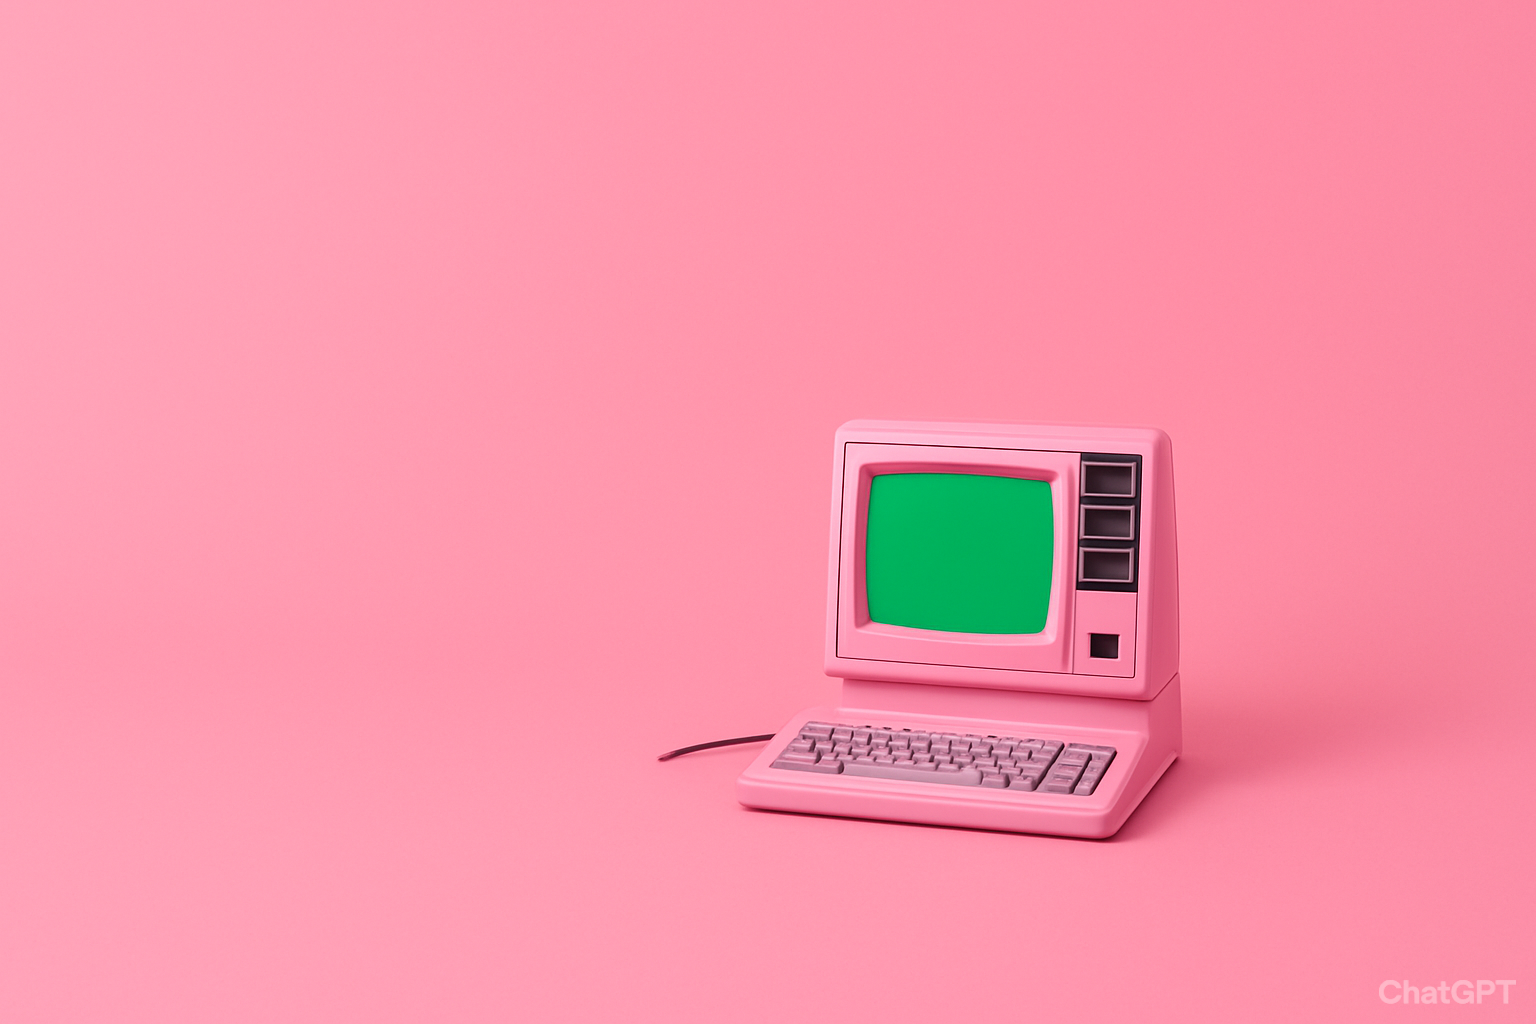
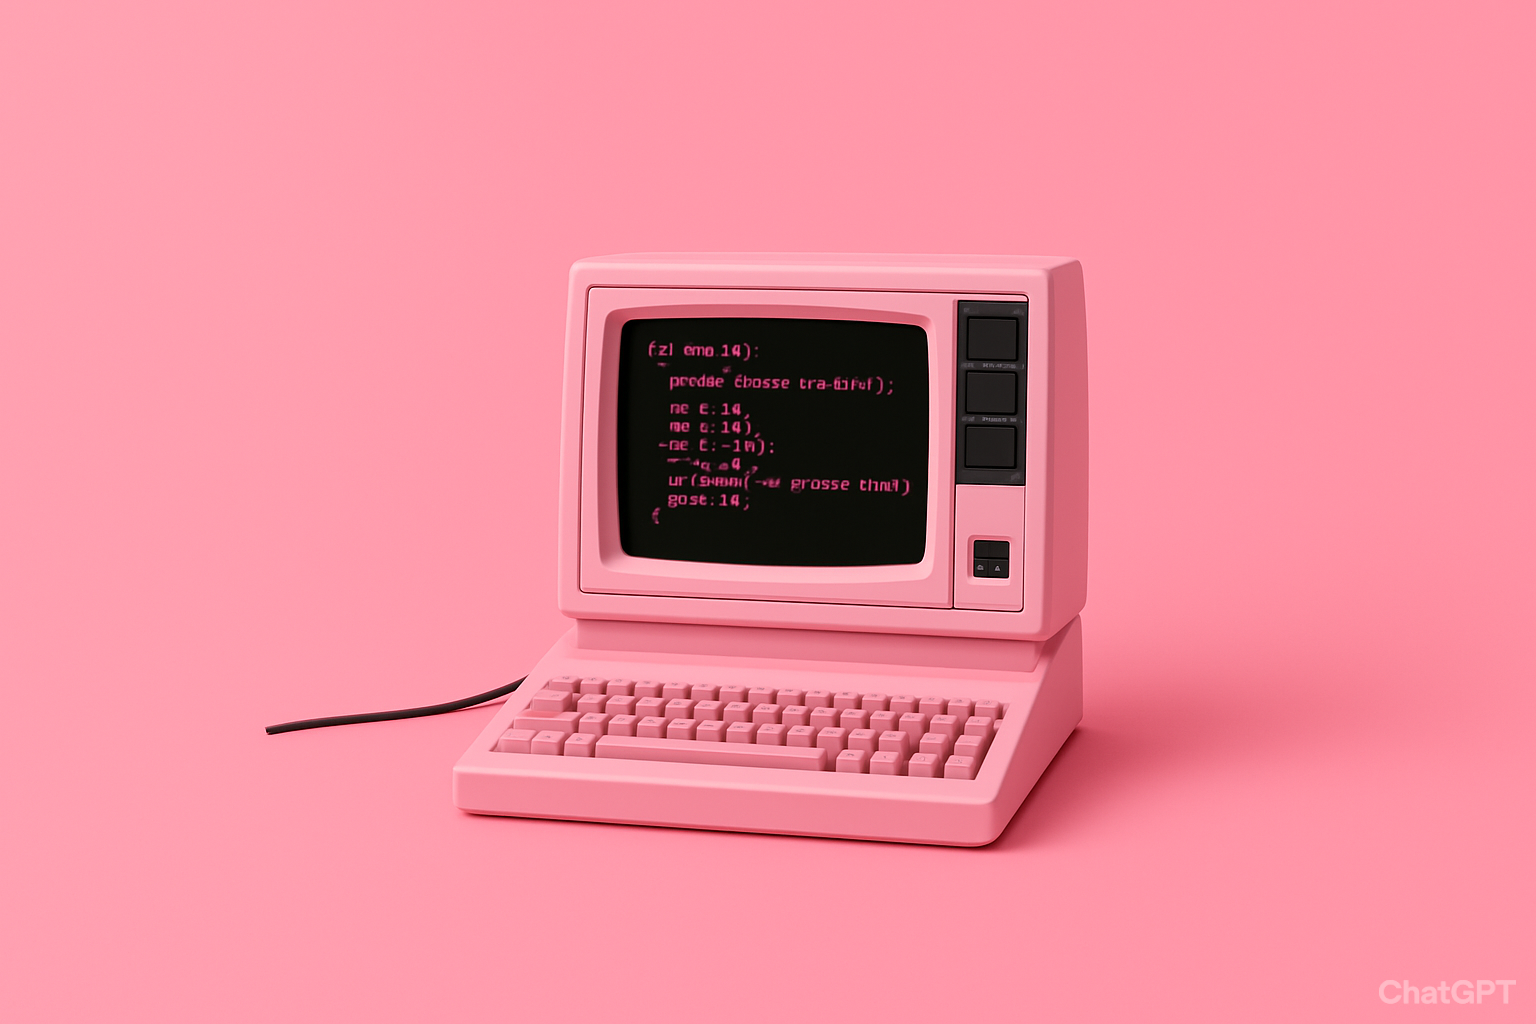
new updates

Changed region(s): [[0.1562, 0.25, 0.8125, 0.8438]]

diff --git a/src/app/page.tsx b/src/app/page.tsx
@@ -48,10 +48,10 @@ export default function Home() {
                   driving innovation
                 </h1>
                 <p className="text-lg sm:text-xl lg:text-2xl text-black leading-relaxed sm:leading-snug font-bold">
-                  <a href="#open-source" className="inline-block align-middle bg-pink-100 text-pink-700 px-2 py-0.5 rounded-md mr-2 hover:bg-pink-200 transition-colors underline-offset-2 hover:underline font-bold">
+                  {/* <a href="#open-source" className="inline-block align-middle bg-pink-100 text-pink-700 px-2 py-0.5 rounded-md mr-2 hover:bg-pink-200 transition-colors underline-offset-2 hover:underline font-bold">
                     Open Source
-                  </a>
-                  community for women building the future.
+                  </a> */}
+                   Where women build, live and launch their ideas.
                 </p>
               </div>
               
@@ -65,10 +65,10 @@ export default function Home() {
                   <span>Subscribe</span>
                 </a>
               </div>
+                </div>
+              </div>
             </div>
-          </div>
-        </div>
-        
+
         {/* Numbers moved to bottom of hero section */}
         <div className="absolute bottom-8 left-4 right-4 sm:left-4 sm:right-auto sm:bottom-12">
           <div className="max-w-6xl">
@@ -76,11 +76,11 @@ export default function Home() {
               <div className="text-left">
                 <div className="text-3xl sm:text-4xl lg:text-6xl font-bold text-black">700+</div>
                 <div className="text-sm sm:text-sm text-gray-800 font-bold">Community Members</div>
-              </div>
+                  </div>
               <div className="text-left">
                 <div className="text-3xl sm:text-4xl lg:text-6xl font-bold text-black">20K</div>
                 <div className="text-sm sm:text-sm text-gray-800 font-bold">Raised</div>
-              </div>
+                  </div>
               <div className="text-left">
                 <div className="text-3xl sm:text-4xl lg:text-6xl font-bold text-black">100%</div>
                 <div className="text-sm sm:text-sm text-gray-800 font-bold">Free & Volunteer-Run</div>
@@ -526,6 +526,107 @@ export default function Home() {
                 <span className="text-base sm:text-base md:text-lg lg:text-xl font-bold text-black/60">Partner Logo 5</span>
               </div>
             </div>
+          </div>
+        </div>
+      </section>
+
+      {/* Gallery Section */}
+      <section className="py-8 sm:py-12 lg:py-16 mb-8 sm:mb-12 lg:mb-20">
+        <div className="container mx-auto px-4">
+          <div className="text-center mb-8 sm:mb-12 lg:mb-16">
+            <h2 className="text-3xl sm:text-3xl md:text-4xl lg:text-5xl font-extrabold text-black mb-2 sm:mb-3 lg:mb-4">
+              Dinners, Hackathons, Panels...
+            </h2>
+            {/* <p className="text-base sm:text-base lg:text-lg text-black/80 max-w-2xl mx-auto font-bold">
+              Moments from our community events and gatherings.
+            </p> */}
+          </div>
+
+          {/* Gallery Grid */}
+          <div className="grid grid-cols-1 sm:grid-cols-2 lg:grid-cols-3 gap-4 sm:gap-6 lg:gap-8">
+            {/* Students Image */}
+            <div className="relative group overflow-hidden rounded-lg shadow-lg hover:shadow-xl transition-shadow duration-300">
+              <Image
+                src="/womenx1.jpeg"
+                alt="Students at WomenX Innovators event"
+                width={400}
+                height={300}
+                className="w-full h-64 sm:h-72 lg:h-80 object-cover group-hover:scale-105 transition-transform duration-300"
+              />
+              <div className="absolute inset-0 bg-black/20 group-hover:bg-black/10 transition-colors duration-300"></div>
+            </div>
+
+            {/* WomenX Image 1 */}
+            <div className="relative group overflow-hidden rounded-lg shadow-lg hover:shadow-xl transition-shadow duration-300">
+              <Image
+                src="/womenx.jpeg"
+                alt="WomenX Innovators community event"
+                width={400}
+                height={300}
+                className="w-full h-64 sm:h-72 lg:h-80 object-cover group-hover:scale-105 transition-transform duration-300"
+              />
+              <div className="absolute inset-0 bg-black/20 group-hover:bg-black/10 transition-colors duration-300"></div>
+            </div>
+
+            {/* WomenX Image 2 */}
+            <div className="relative group overflow-hidden rounded-lg shadow-lg hover:shadow-xl transition-shadow duration-300">
+              <Image
+                src="/womenx3.jpg"
+                alt="WomenX Innovators networking event"
+                width={400}
+                height={300}
+                className="w-full h-64 sm:h-72 lg:h-80 object-cover group-hover:scale-105 transition-transform duration-300"
+              />
+              <div className="absolute inset-0 bg-black/20 group-hover:bg-black/10 transition-colors duration-300"></div>
+            </div>
+
+            {/* Community Event Image */}
+
+            {/* Founders Showcase Image */}
+            <div className="relative group overflow-hidden rounded-lg shadow-lg hover:shadow-xl transition-shadow duration-300">
+              <Image
+                src="/founders-showcase.jpg"
+                alt="Founders showcase at WomenX Innovators"
+                width={400}
+                height={300}
+                className="w-full h-64 sm:h-72 lg:h-80 object-cover group-hover:scale-105 transition-transform duration-300"
+              />
+              <div className="absolute inset-0 bg-black/20 group-hover:bg-black/10 transition-colors duration-300"></div>
+            </div>
+
+            {/* Girls Image */}
+            <div className="relative group overflow-hidden rounded-lg shadow-lg hover:shadow-xl transition-shadow duration-300">
+              <Image
+                src="/girls.jpeg"
+                alt="Women at WomenX Innovators event"
+                width={400}
+                height={300}
+                className="w-full h-64 sm:h-72 lg:h-80 object-cover group-hover:scale-105 transition-transform duration-300"
+              />
+              <div className="absolute inset-0 bg-black/20 group-hover:bg-black/10 transition-colors duration-300"></div>
+            </div>
+            <div className="relative group overflow-hidden rounded-lg shadow-lg hover:shadow-xl transition-shadow duration-300">
+              <Image
+                src="/community-event.jpg"
+                alt="Community event at WomenX Innovators"
+                width={400}
+                height={300}
+                className="w-full h-64 sm:h-72 lg:h-80 object-cover group-hover:scale-105 transition-transform duration-300"
+              />
+              <div className="absolute inset-0 bg-black/20 group-hover:bg-black/10 transition-colors duration-300"></div>
+            </div>
+
+            {/* WomenX1 Image */}
+            {/* <div className="relative group overflow-hidden rounded-lg shadow-lg hover:shadow-xl transition-shadow duration-300">
+              <Image
+                src="/womenx1.jpeg"
+                alt="WomenX Innovators community gathering"
+                width={400}
+                height={300}
+                className="w-full h-64 sm:h-72 lg:h-80 object-cover group-hover:scale-105 transition-transform duration-300"
+              />
+              <div className="absolute inset-0 bg-black/20 group-hover:bg-black/10 transition-colors duration-300"></div>
+            </div> */}
           </div>
         </div>
       </section>
